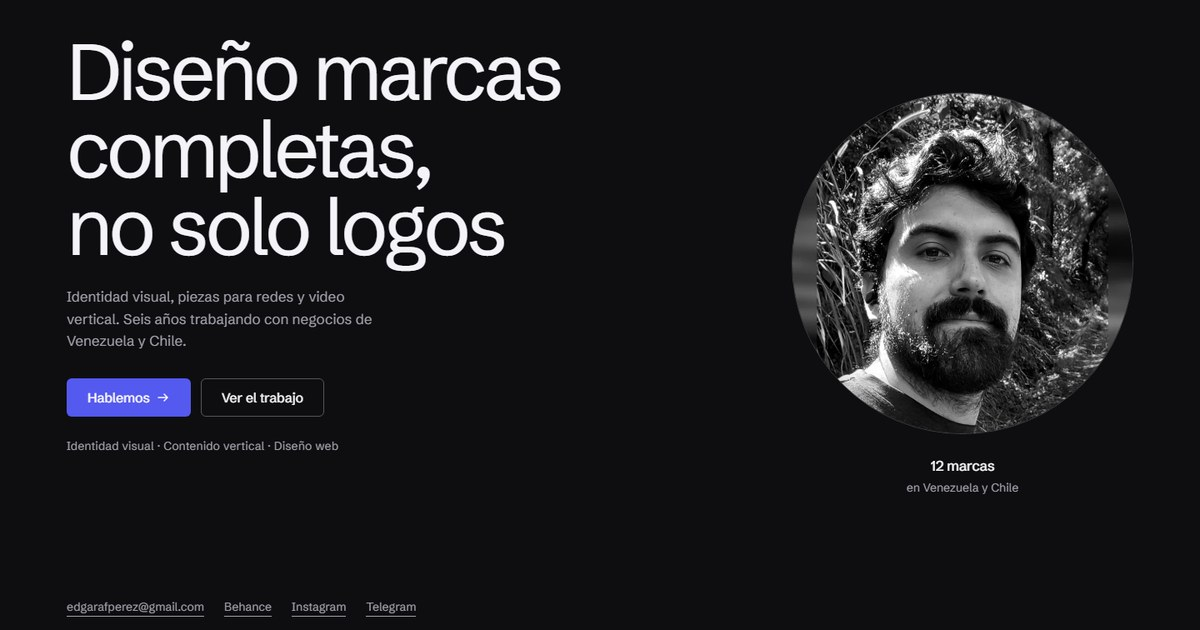
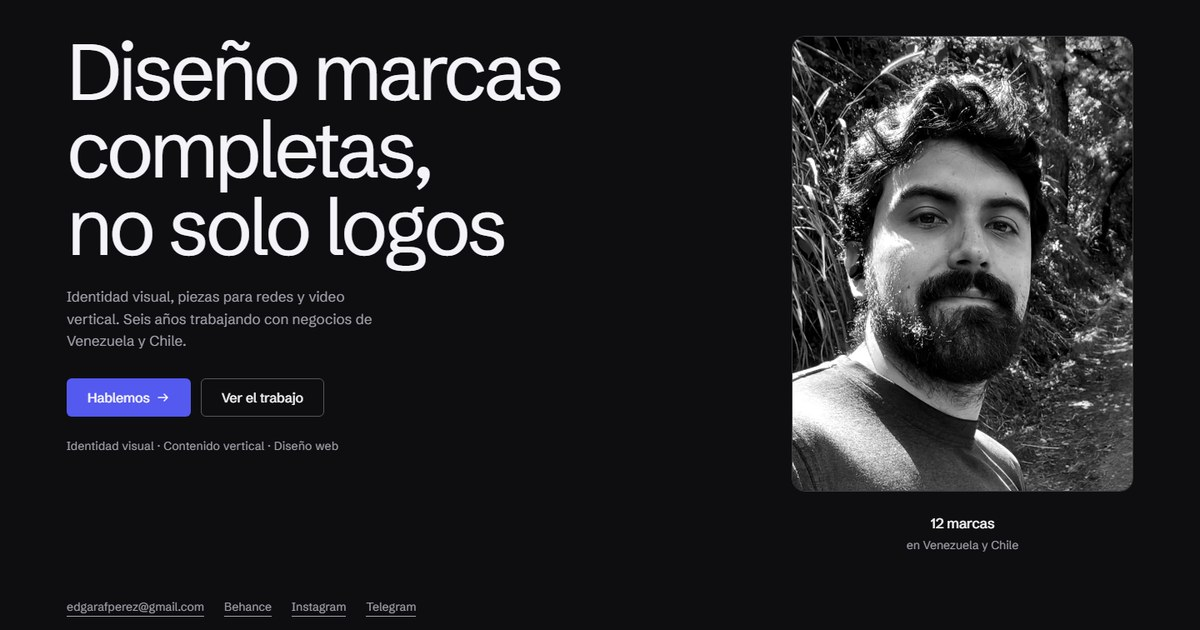
Retrato: placa 3:4 en lugar de circulo, con la cabeza respirando
- El circulo obligaba a un recorte cuadrado, y tu foto es 1628x2575: un
  cuadrado solo llega a 1628 y la cabeza medía 1482 de alto. Ahora la placa
  es 3:4 con TODO el ancho del original, sin relleno inventado.
- La cabeza pasa a ocupar el 62% del ancho y el 68% del alto, con un 18% de
  fondo a cada lado y aire arriba.
- Marco redondeado de 16 px con filete del 20% en lugar del circulo.
- En el telefono la placa mide 260 px de ancho: el hero queda en 1,12
  pantallas porque la alternativa era recortarle la cabeza. Se prefirio la
  foto completa.
- Regenerada la imagen de Open Graph.

Changed region(s): [[0.6475, 0.0302, 0.9558, 0.7841], [0.74, 0.8143, 0.8633, 0.8746]]

diff --git a/styles/style.css b/styles/style.css
@@ -419,15 +419,15 @@ html { scrollbar-color: #3a3944 transparent; }
   animation: avatar-in 700ms var(--ease-enter) 140ms both;
 }
 
-/* Foto de perfil en círculo, con un filete fino que la separa del negro */
+/* Retrato en placa 3:4, con filete fino que la separa del negro */
 .hero__media > img {
-  width: clamp(240px, 28.5vw, 410px);
+  width: clamp(260px, 28.5vw, 410px);
   height: auto;
-  aspect-ratio: 1 / 1;
-  border-radius: 50%;
+  aspect-ratio: 3 / 4;
+  border-radius: var(--r-lg);
   object-fit: cover;
-  object-position: center 20%;
-  border: 1px solid color-mix(in oklab, #f4f3f7 22%, transparent);
+  object-position: center;
+  border: 1px solid color-mix(in oklab, #f4f3f7 20%, transparent);
 }
 
 @keyframes avatar-in {

diff --git a/index.html b/index.html
@@ -92,7 +92,7 @@
       </div>
 
       <div class="hero__media">
-        <img src="images/retrato.webp" srcset="images/retrato-720.webp 720w, images/retrato.webp 1080w" sizes="(max-width: 479px) 240px, (max-width: 1023px) 320px, 460px" alt="Edgar Fernández, diseñador gráfico" width="1080" height="1080">
+        <img src="images/retrato.webp" srcset="images/retrato-720.webp 720w, images/retrato.webp 1080w" sizes="(max-width: 1023px) 280px, 410px" alt="Edgar Fernández, diseñador gráfico" width="1080" height="1440">
         <div class="hero__fact">
           <strong>12 marcas</strong>
           <span>en Venezuela y Chile</span>
